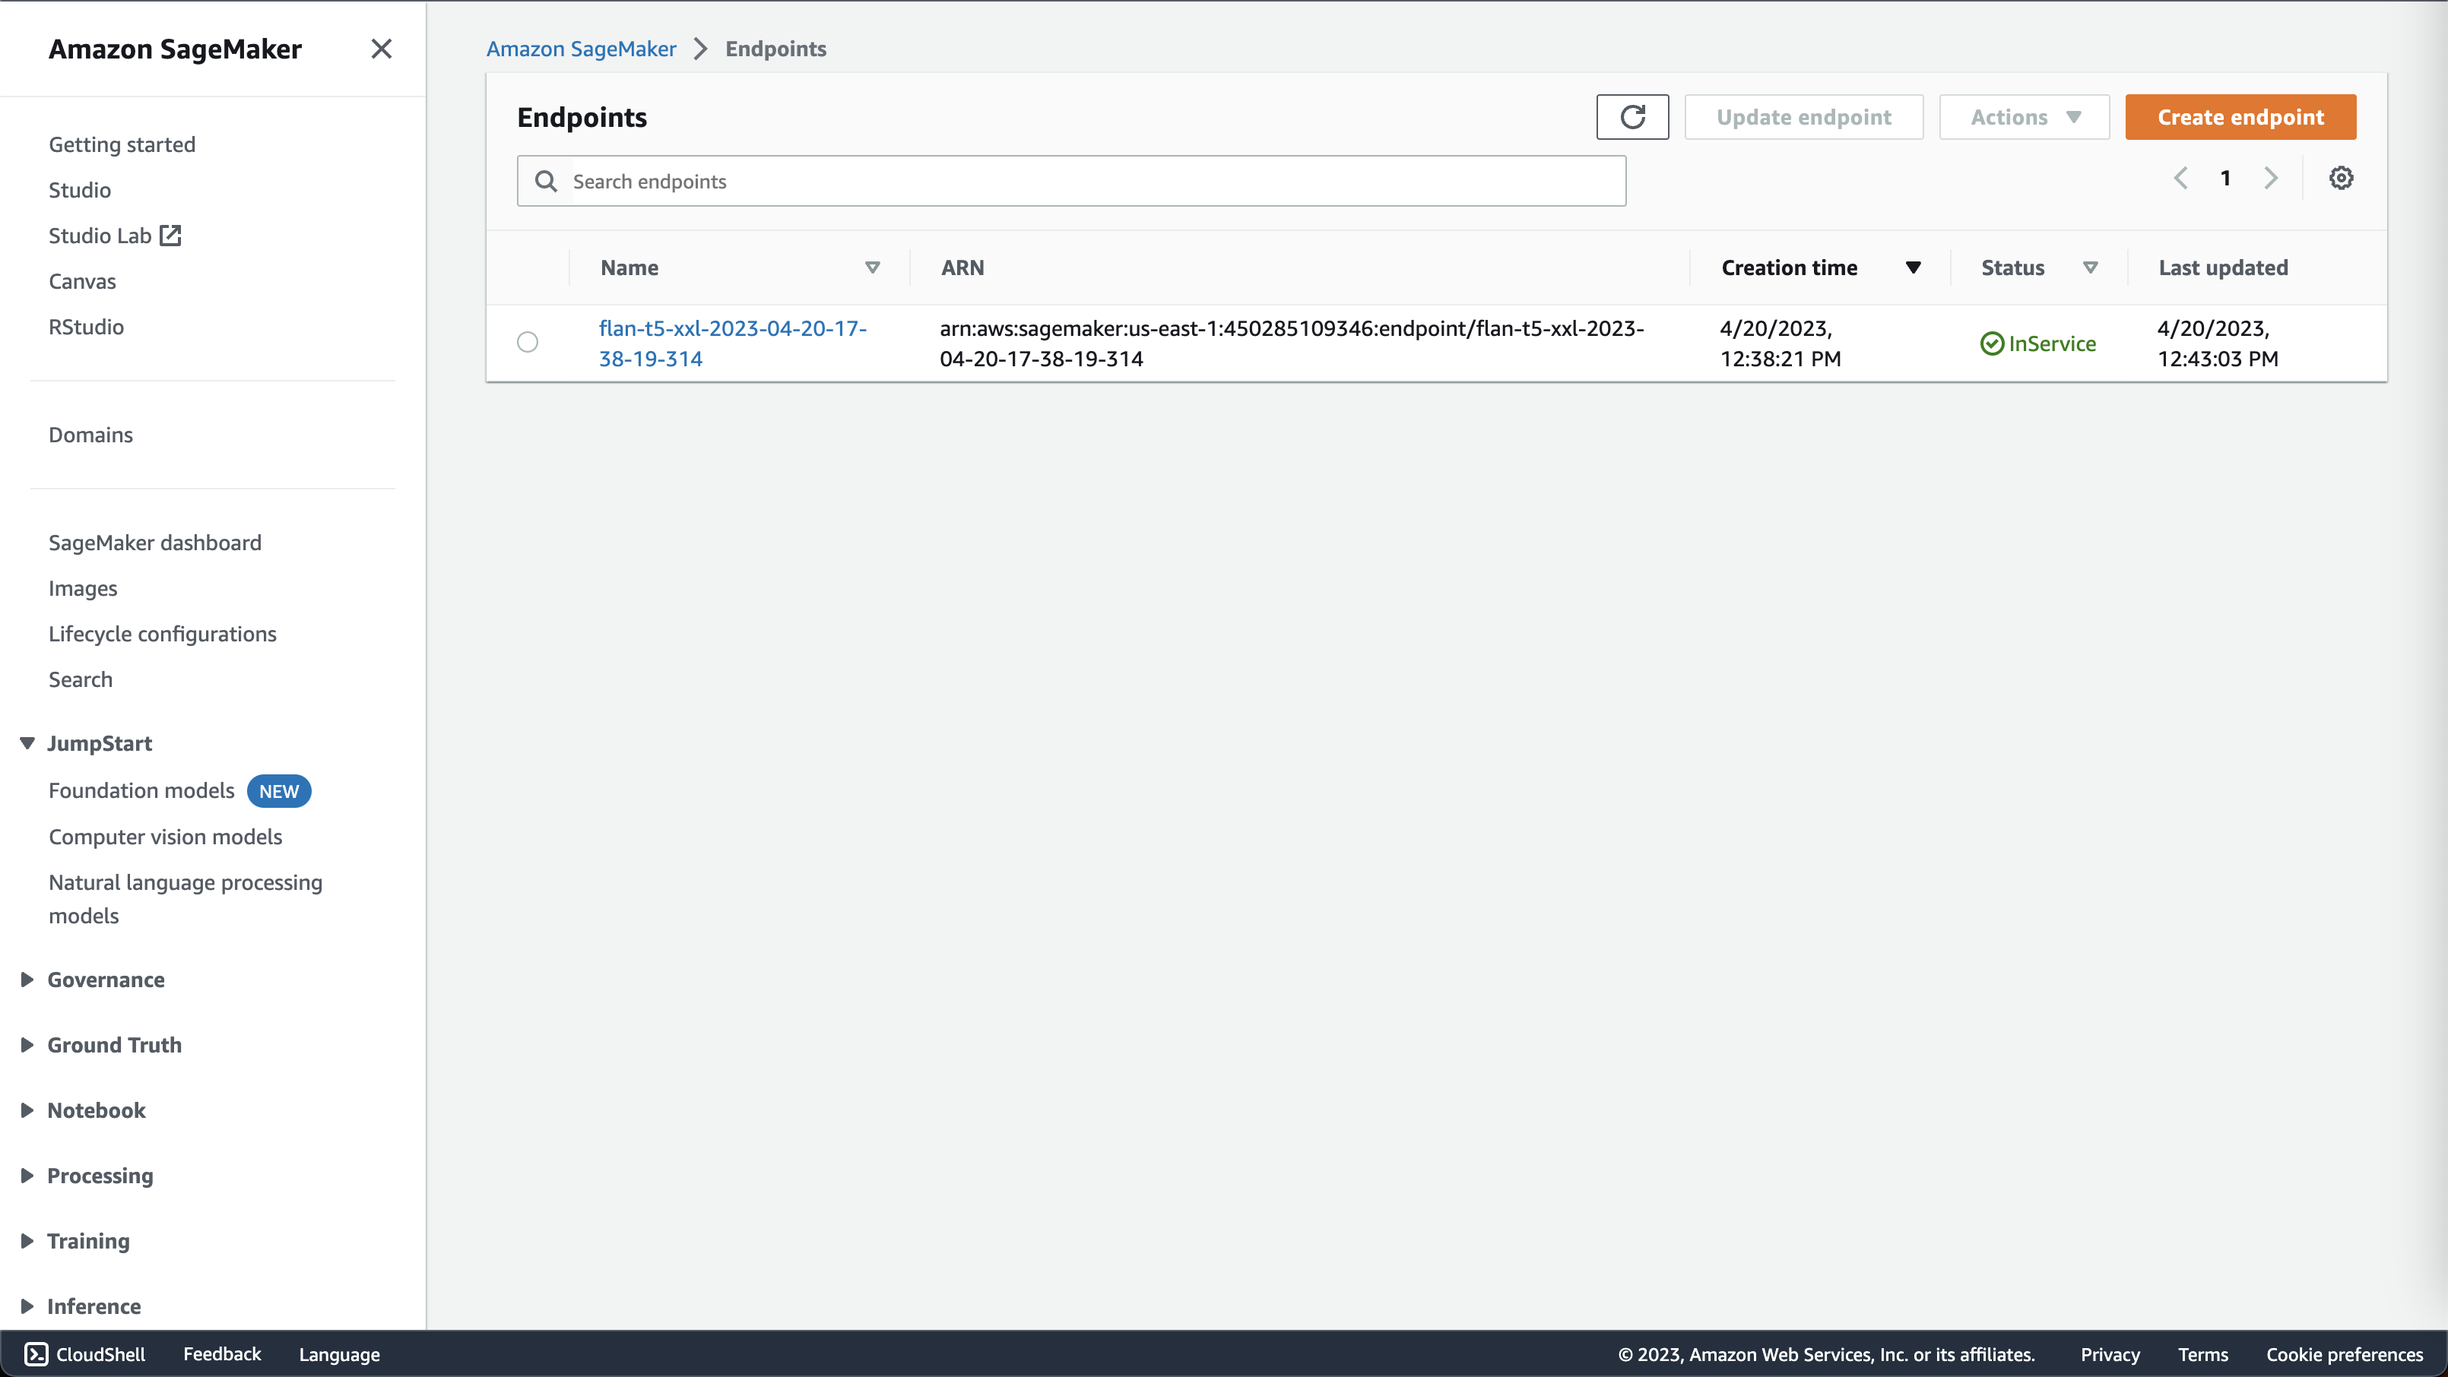
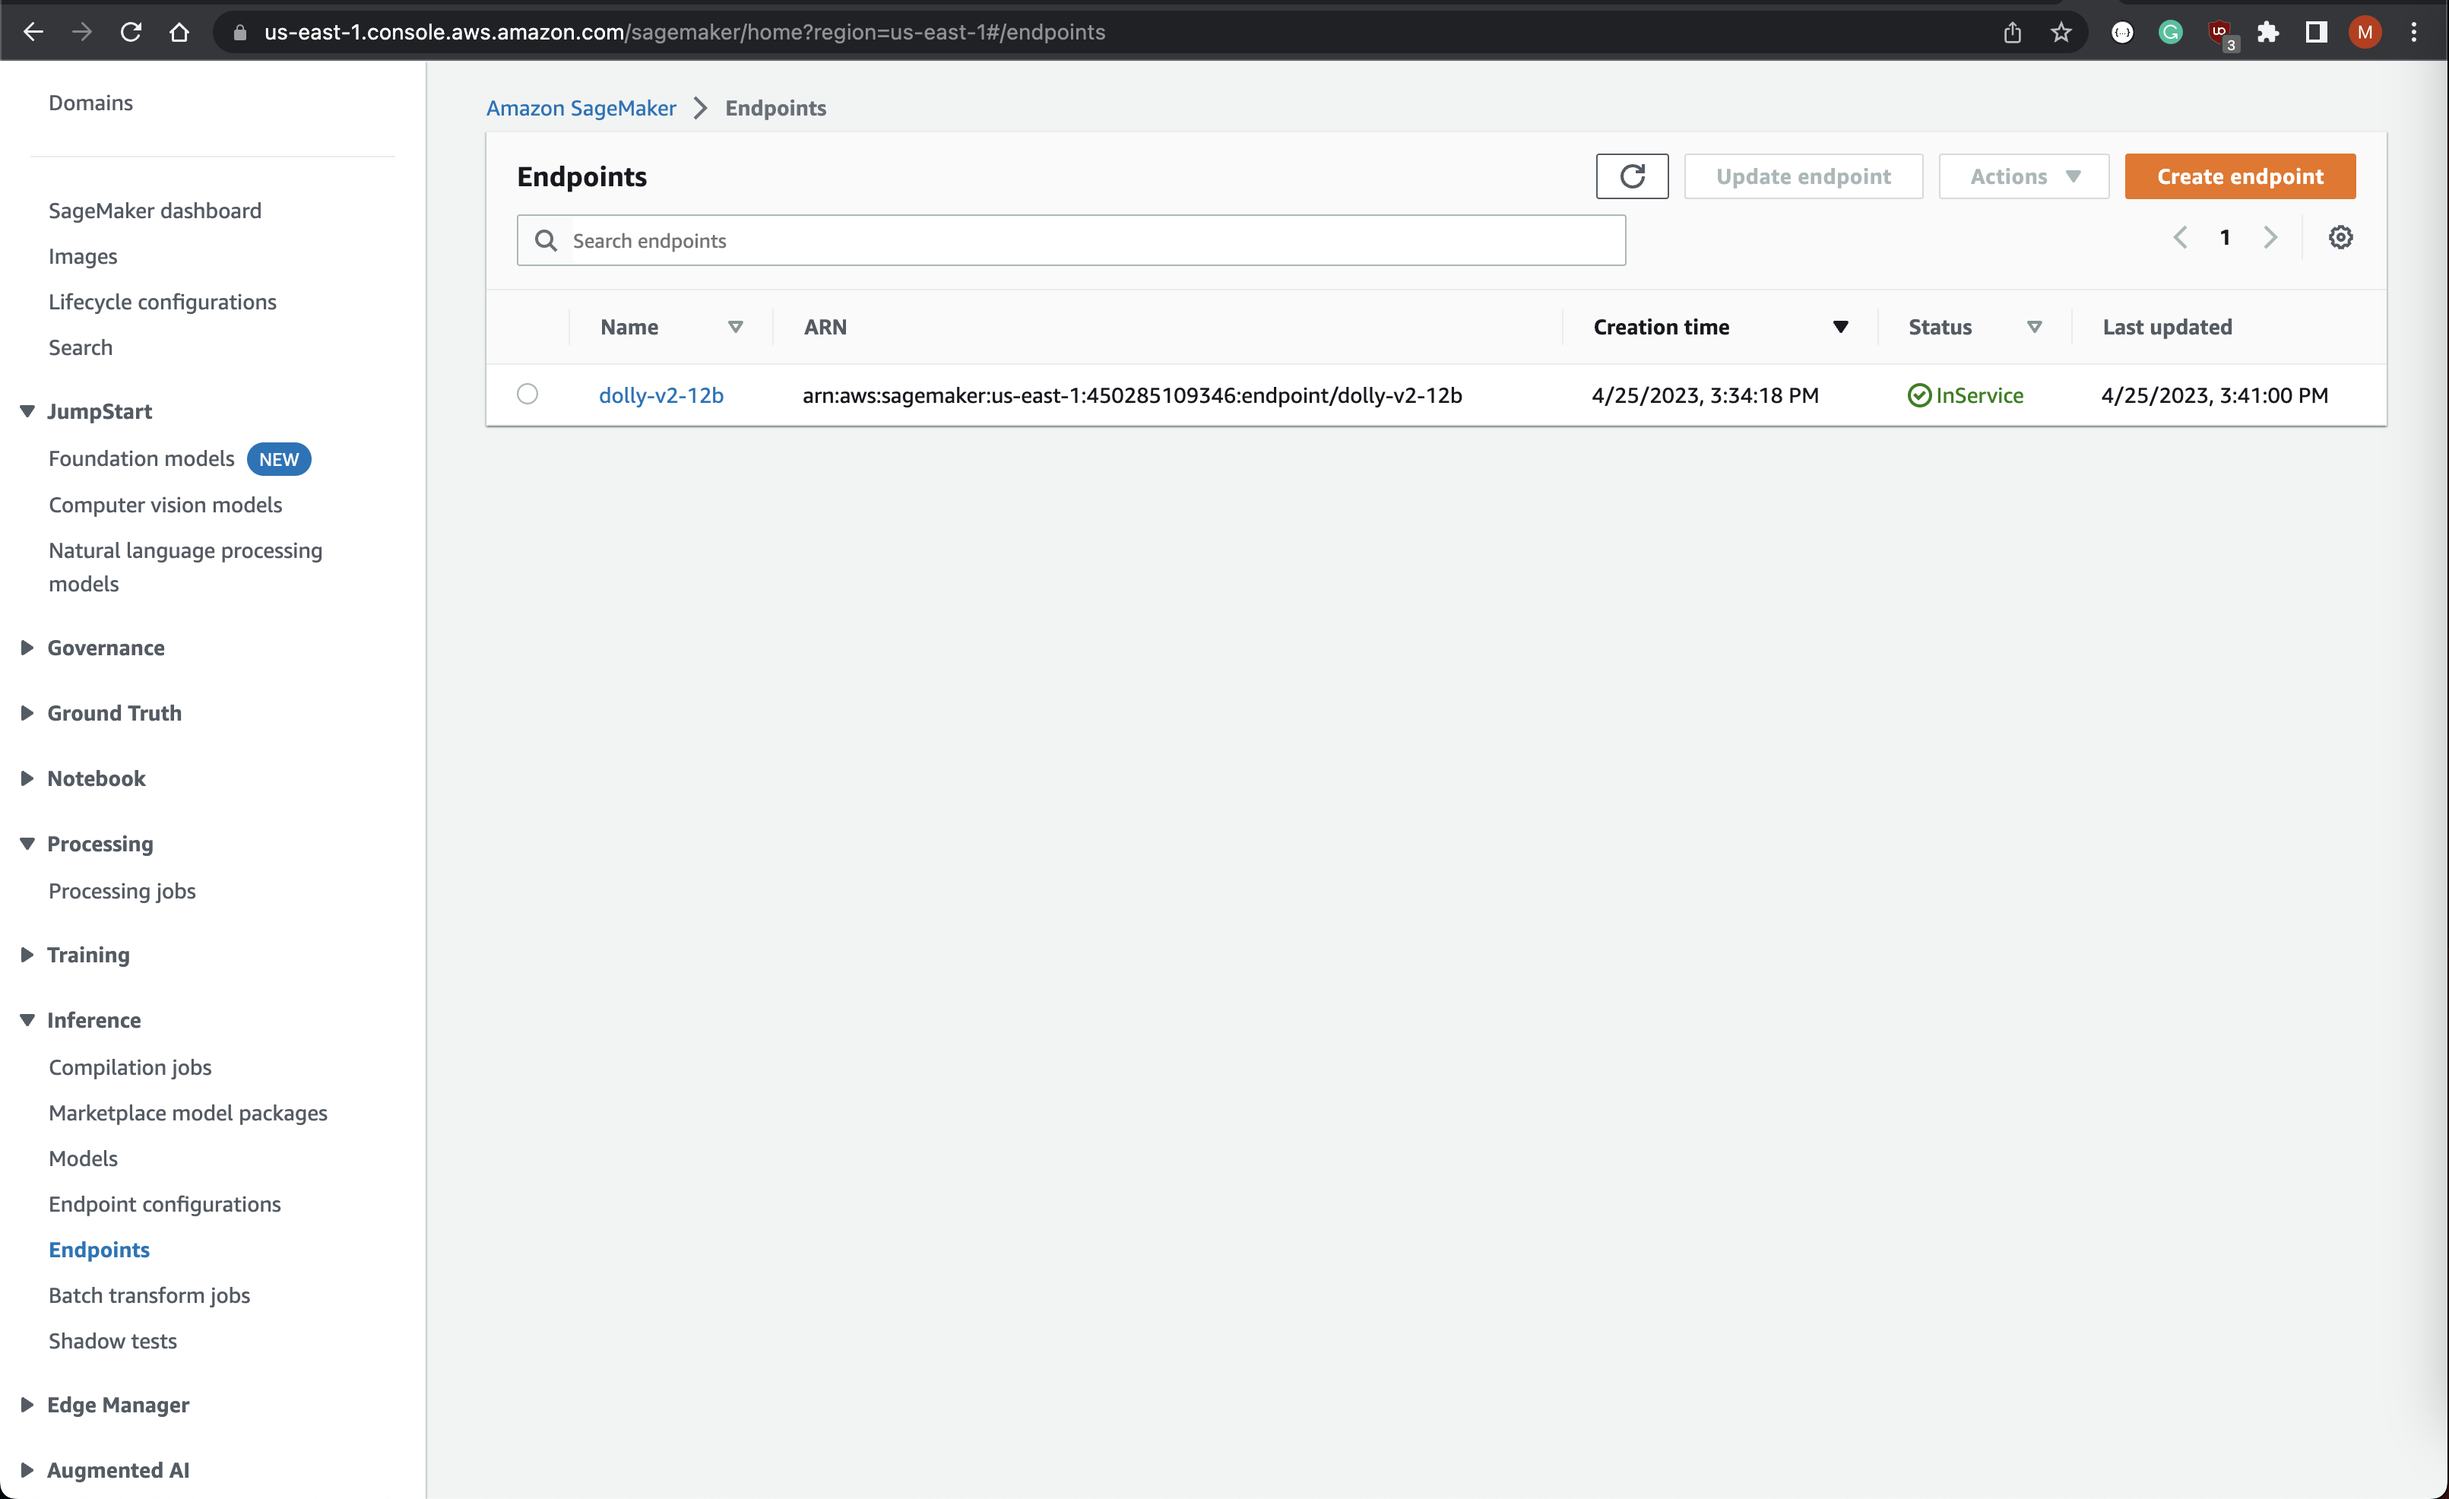
Swap Google Flan-T5-XXL model in favor of Databricks Dolly-V2-12B

diff --git a/model/code/inference.py b/model/code/inference.py
@@ -1,19 +1,14 @@
-from transformers import T5ForConditionalGeneration, AutoTokenizer
+import torch
+from transformers import pipeline
 
 
-def model_fn(model_dir) -> tuple:
-    model = T5ForConditionalGeneration.from_pretrained("google/flan-t5-xxl", load_in_8bit=True, device_map="auto",
-                                                       cache_dir="/tmp/model_cache/")
-    tokenizer = AutoTokenizer.from_pretrained("google/flan-t5-xxl")
+def model_fn(model_dir):
+    instruct_pipeline = pipeline(
+        model="databricks/dolly-v2-12b",
+        torch_dtype=torch.bfloat16,
+        trust_remote_code=True,
+        device_map="auto",
+        model_kwargs={"load_in_8bit": True},
+    )
 
-    return model, tokenizer
-
-
-def predict_fn(data, model_and_tokenizer) -> str:
-    model, tokenizer = model_and_tokenizer
-    text = data.pop("inputs", data)
-
-    inputs = tokenizer(text, return_tensors="pt").input_ids.to("cuda")
-    outputs = model.generate(inputs, **data)
-
-    return tokenizer.decode(outputs[0], skip_special_tokens=True)
+    return instruct_pipeline

diff --git a/playground.py b/playground.py
@@ -21,20 +21,20 @@ def generate_text(input_prompt: str) -> str:
     )
 
     result = json.loads(response["Body"].read().decode())
-    return result
+    return result[0]["generated_text"]
 
 
 session = boto3.Session()
 sagemaker_runtime = session.client("sagemaker-runtime", region_name=session.region_name)
-endpoint_name = "flan-t5-xxl"
+endpoint_name = "dolly-v2-12b"
 
-st.sidebar.title("Flan-T5 Parameters")
+st.sidebar.title("Dolly-V2 Parameters")
 stop_word = st.sidebar.text_input("Stop word")
 min_length, max_length = st.sidebar.slider("Min/Max length", 0, 500, (0, 100))
 temperature = st.sidebar.slider("Temperature", min_value=0.0, max_value=1.0, value=0.6)
 rep_penalty = st.sidebar.slider("Repetition Penalty", min_value=0.9, max_value=1.2, value=1.0)
 
-st.header("Flan-T5-XXL Playground")
+st.header("Dolly-v2-12B Playground")
 prompt = st.text_area("Enter your prompt here:")
 
 if st.button("Run"):
